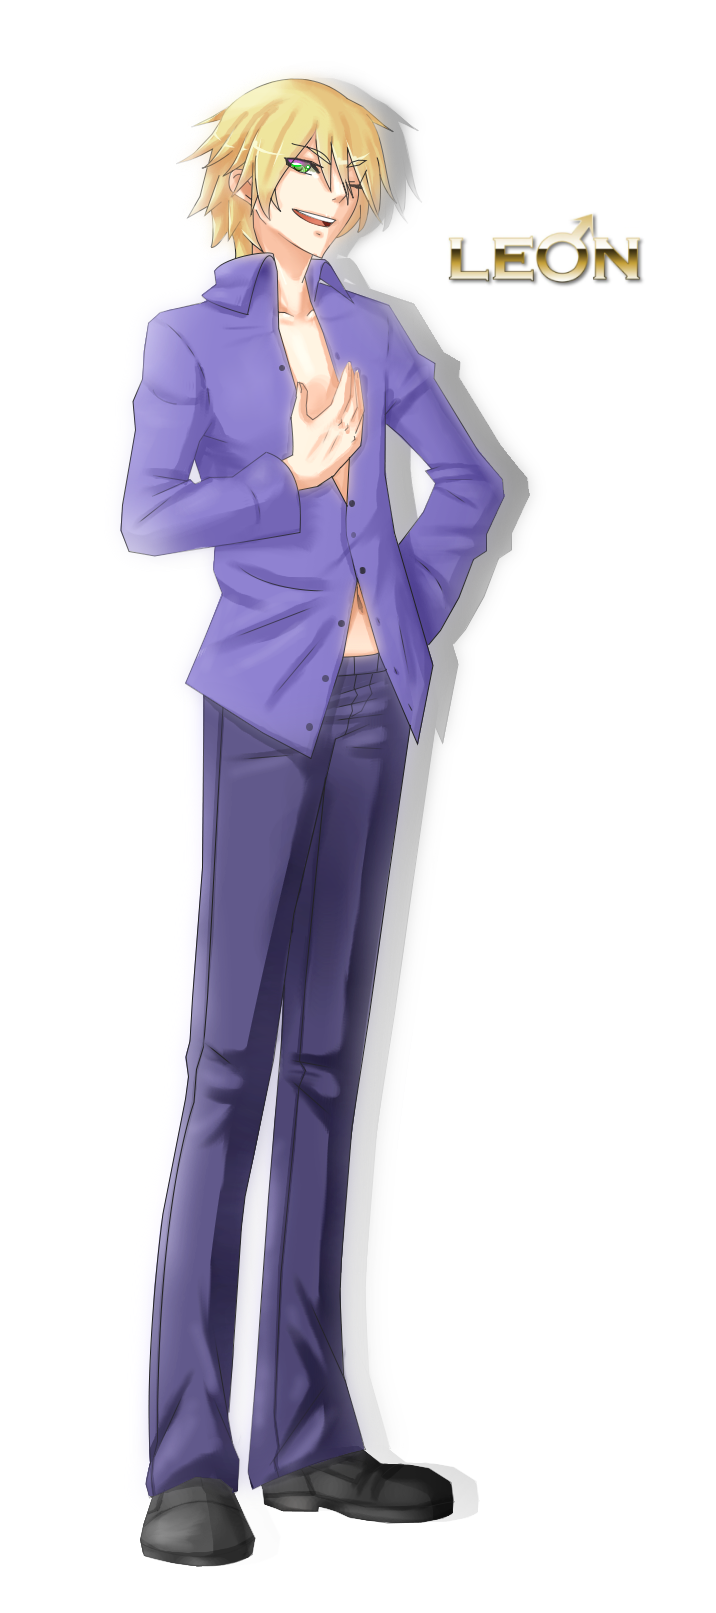
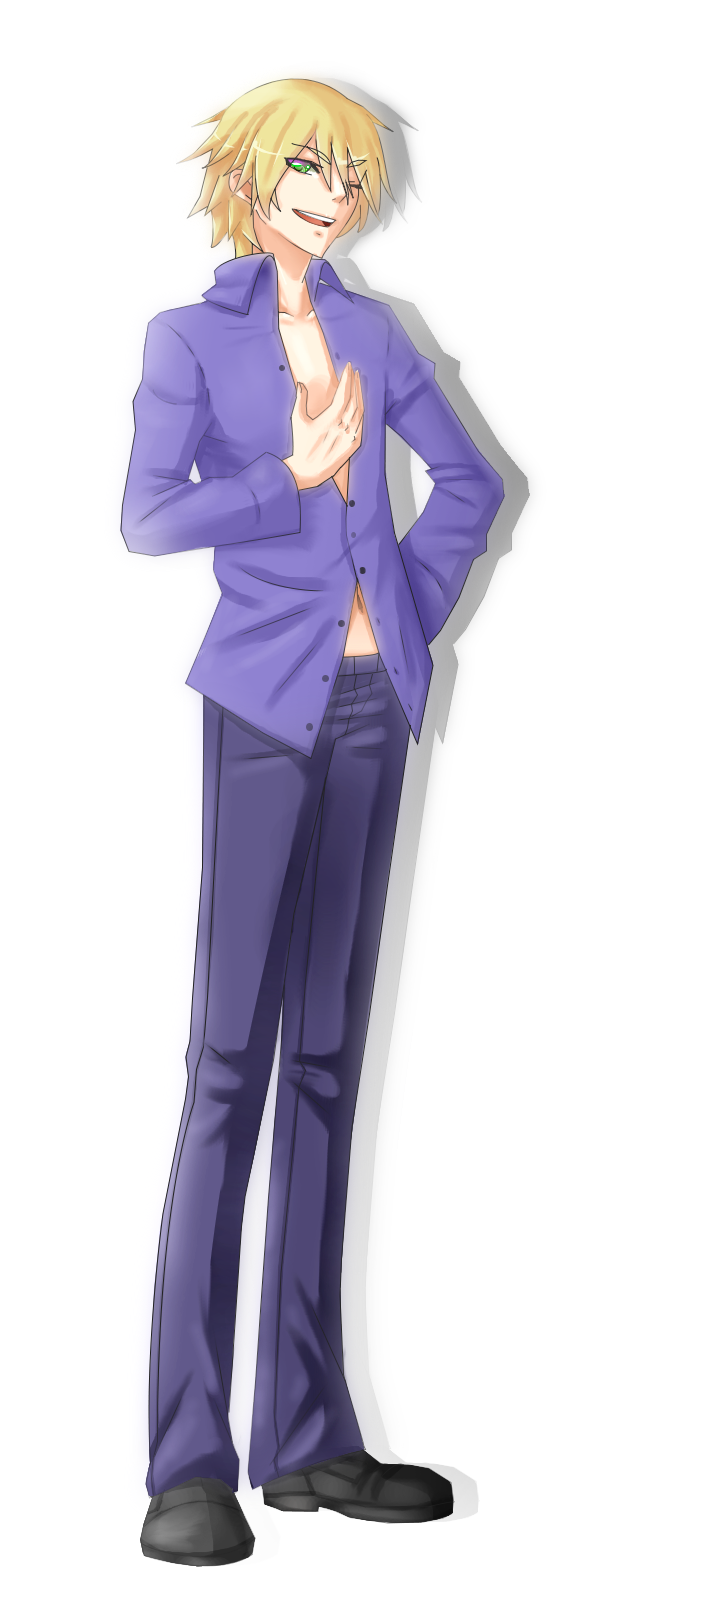
remove names from images, fix filenames

Changed region(s): [[0.6145, 0.124, 0.9218, 0.186]]

diff --git a/src/components/NameThatX.vue b/src/components/NameThatX.vue
@@ -33,10 +33,9 @@
         </div>
       </div>
     </div>
-    <div class="ntx-right">
+    <div class="ntx-controls">
       <div class="ntx-statistics">
         <span class="progress">{{ progress }}</span>
-
         <h2>Score</h2>
         <p v-if="!isLastAnswerCorrect" class="correction">Incorrect! The correct answer was, "{{ lastModuleName }}"</p>
         <p>Correct: {{ numberOfCorrectAnswers }} Incorrect: {{ numberOfIncorrectAnswers }}</p>
@@ -344,10 +343,10 @@ export default {
   height: 55vh;
 }
 
-.ntx-right {
-  display: block;
-  width: auto;
-  height: 45vh;
+.ntx-controls {
+  display: flex;
+  flex-direction: column;
+  background: rgba(255, 255, 255, 0.5);
 }
 
 .ntx-heading-wrapper {
@@ -373,6 +372,7 @@ export default {
   max-height: 100%;
   max-width: 100%;
   position: absolute;
+  z-index: -5;
 }
 
 .ntx-button {
@@ -387,6 +387,7 @@ export default {
   margin: 0.2em;
   user-select: none;
   cursor: pointer;
+  z-index: 500;
 }
 
 .ntx-statistics p {
@@ -396,7 +397,7 @@ export default {
 }
 
 .ntx-statistics {
-  background-color: #bec8d1;
+  align-items: flex-start;
   margin: 1vh 0 1vh 0;
   padding: 1vh 0 1vh 0;
 }
